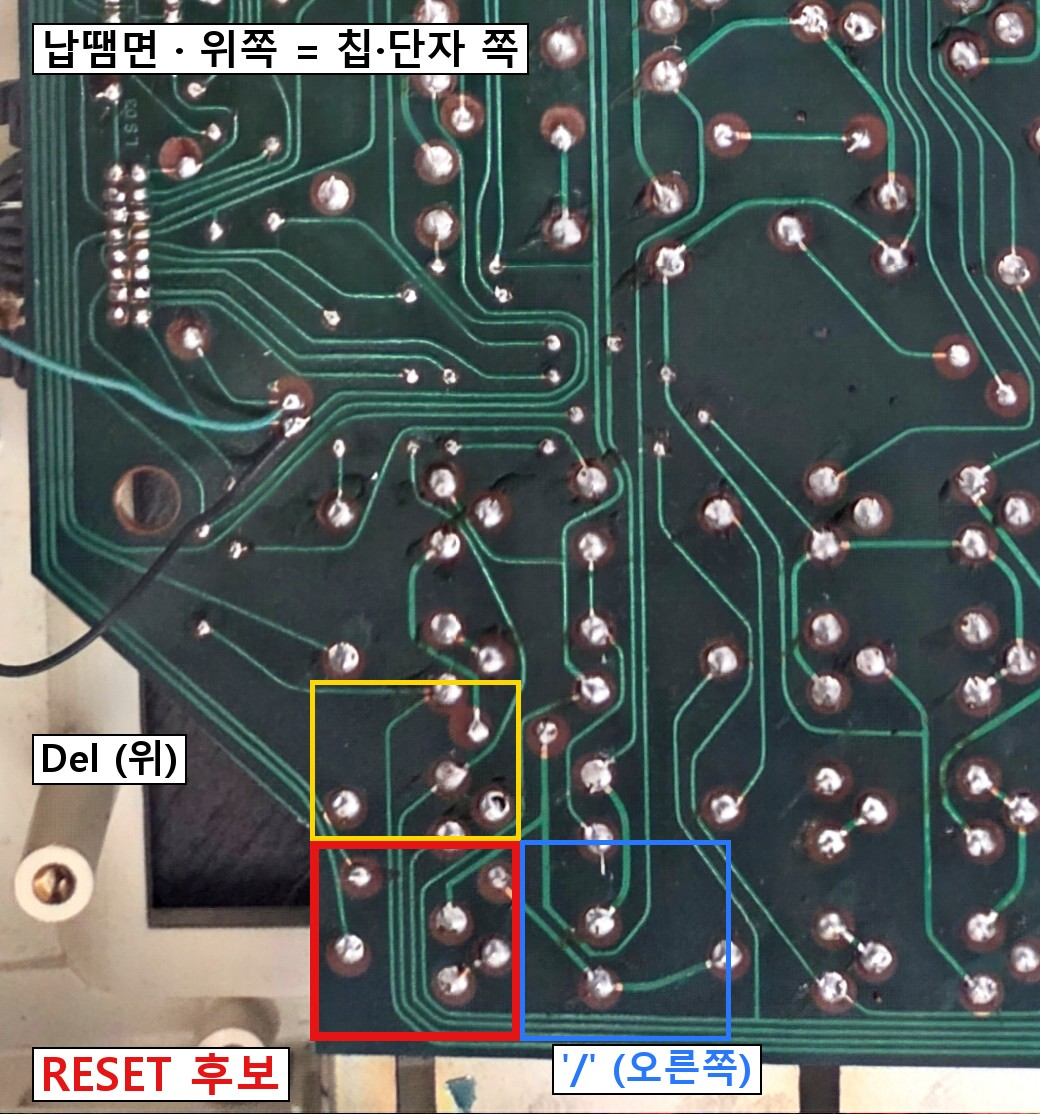
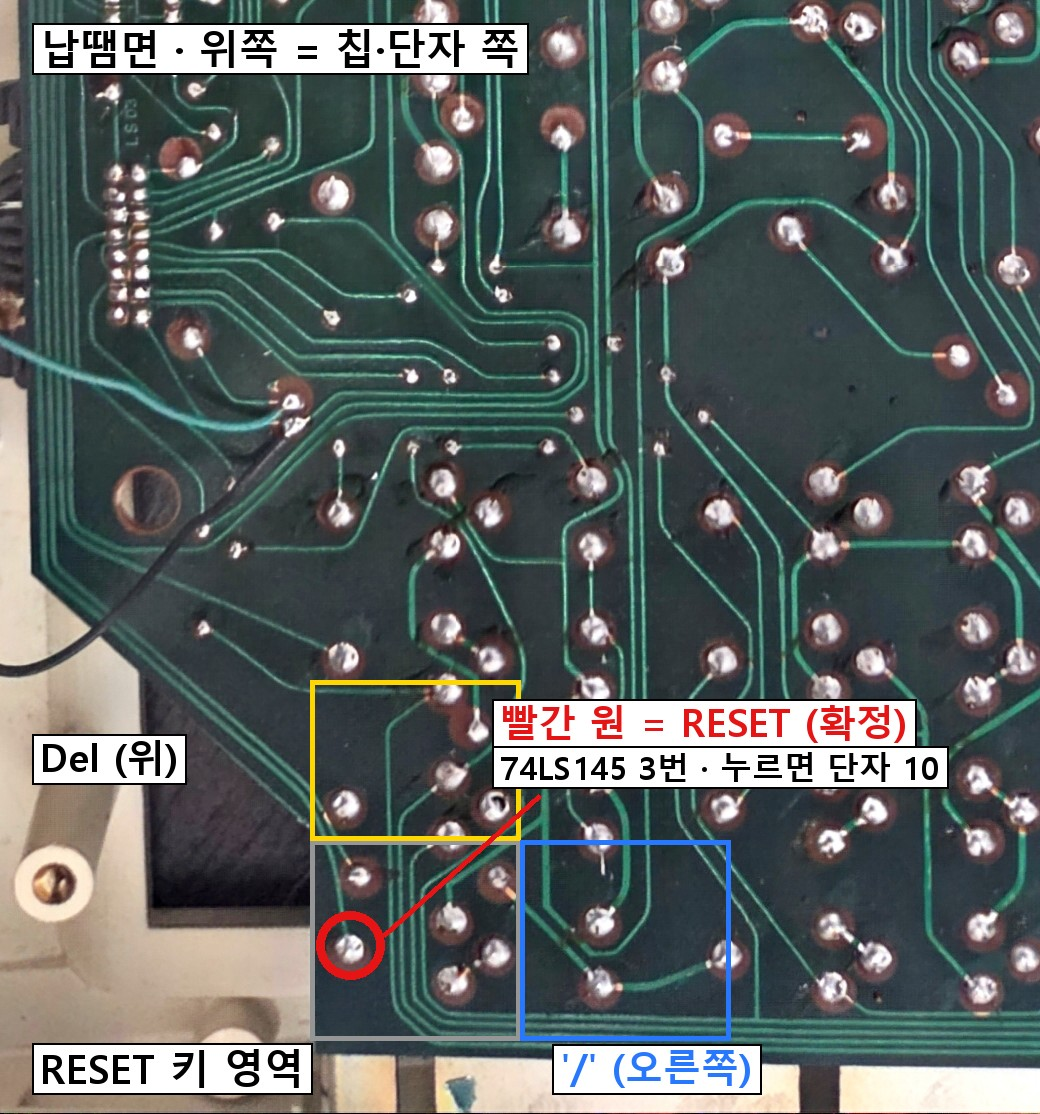
키보드 연결 후 첫 시험 기록(로고에서 멈춤, Disp만 반응), RESET 확정 패드·본체 쪽 커넥터 구멍 번호(1 +5V, 8·9 GND) 그림, 헷갈리는 옛 키보드 그림 정리 (2026-11-07)

Changed region(s): [[0.0308, 0.6104, 0.9231, 1.0]]

diff --git a/tools/annotate_cable_holes_clear.py b/tools/annotate_cable_holes_clear.py
@@ -1,0 +1,66 @@
+"""본체 쪽 키보드 케이블 커넥터(구멍 면, 점퍼선 없음) 사진 20261107_224136에 구멍 번호 매기기. ← 본체 쪽 커넥터 번호 기준 그림
+사용: python tools/annotate_cable_holes_clear.py photos/keyboard/20261107_224136_cable-connector_holes_clear.jpg analysis/kbd_cable_holes_numbered.jpg
+번호 규칙 = kbd_measure_simple.jpg 와 같음: 오른쪽 줄 맨 위 = 1, 오른쪽 줄 아래로 1–8, 이어서 왼쪽 줄 아래→위 9–16.
+사진 기준: 구멍 면, 글자(JAE…) 면과 케이블 묶음이 오른쪽, 묶음이 붙은 끝이 위.
++5V = 1번: 같은 각도로 찍은 사진 223843에서 흰 점퍼선(+5V, 사용자 확인)이 꽂힌 자리.
+"""
+import sys
+from PIL import Image, ImageOps, ImageDraw, ImageFont
+
+SRC, OUT = sys.argv[1], sys.argv[2]
+src = ImageOps.exif_transpose(Image.open(SRC)).convert("RGB")
+X0, Y0, S = 1000, 1200, 1.2
+crop = src.crop((X0, Y0, X0 + 800, Y0 + 1000))
+crop = crop.resize((int(800 * S), int(1000 * S)), Image.LANCZOS)
+TOP, BOT, LM = 170, 110, 40
+canvas = Image.new("RGB", (crop.width + LM * 2, crop.height + TOP + BOT), (255, 255, 255))
+canvas.paste(crop, (LM, TOP))
+d = ImageDraw.Draw(canvas)
+F = lambda s: ImageFont.truetype("C:/Windows/Fonts/malgunbd.ttf", s)
+FR = lambda s: ImageFont.truetype("C:/Windows/Fonts/malgun.ttf", s)
+YEL, BLK, RED = (255, 215, 0), (0, 0, 0), (230, 20, 20)
+
+right = [(220, 95), (255, 205), (295, 325), (330, 435), (365, 548), (400, 655), (432, 765), (465, 875)]
+left_bottom_up = [(375, 888), (340, 778), (305, 670), (278, 565), (245, 455), (205, 343), (160, 225), (128, 102)]
+
+def P(x, y):
+    return LM + x * S, TOP + y * S
+
+def tag(x, y, n, color):
+    f = F(30)
+    t = str(n)
+    l, tp, r, b = d.textbbox((x, y), t, font=f)
+    d.rectangle((l - 6, tp - 4, r + 6, b + 4), fill=color, outline=BLK, width=2)
+    d.text((x, y), t, font=f, fill=BLK if color == YEL else (255, 255, 255))
+
+def hole(n, x, y, side):
+    cx, cy = P(x, y)
+    r = 24
+    col = RED if n == 1 else YEL
+    d.ellipse((cx - r, cy - r, cx + r, cy + r), outline=col, width=5)
+    if side == "R":
+        tag(cx + 34, cy - 20, n, col)
+    else:
+        tag(cx - 34 - (40 if n >= 10 else 22), cy - 20, n, col)
+
+for i, (x, y) in enumerate(right):
+    hole(i + 1, x, y, "R")
+for i, (x, y) in enumerate(left_bottom_up):
+    hole(i + 9, x, y, "L")
+cx, cy = P(*right[0])
+d.text((cx + 90, cy - 22), "= +5V", font=F(32), fill=RED)
+# 8·9번 = GND (사용자 확인: 슬롯 GND와 통전) — J10의 GND 2핀(케이스 반대쪽 끝)에 들어가는 줄
+GRN = (0, 150, 60)
+for (x, y) in (right[7], left_bottom_up[0]):
+    gx, gy = P(x, y)
+    d.ellipse((gx - 30, gy - 30, gx + 30, gy + 30), outline=GRN, width=6)
+gx, gy = P(*right[7])
+d.text((gx + 80, gy - 22), "8·9 = GND", font=F(32), fill=GRN)
+
+d.text((20, 14), "본체 쪽 케이블 커넥터 구멍 번호 (기준 그림)", font=F(36), fill=BLK)
+d.text((20, 66), "오른쪽 줄 맨 위 = 1, 아래로 1–8 → 왼쪽 줄 아래에서 위로 9–16 (키보드 그림과 같은 규칙)", font=FR(24), fill=BLK)
+d.text((20, 102), "구멍 면을 보고, 글자(JAE…) 면·케이블 묶음이 오른쪽, 묶음 붙은 끝이 위로 오게 들었을 때", font=FR(24), fill=BLK)
+y = TOP + crop.height + 14
+d.text((20, y), "+5V = 1번 (흰 점퍼선 자리) · GND = 8·9번 (슬롯 GND와 통전, 사용자 확인)", font=F(26), fill=RED)
+d.text((20, y + 44), "측정 결과는 '키보드 단자 ○ → 구멍 ○번'으로 알려 주세요.", font=FR(24), fill=BLK)
+canvas.save(OUT, quality=90)

diff --git a/tools/annotate_u80_u81.py b/tools/annotate_u80_u81.py
@@ -1,0 +1,37 @@
+"""J10 옆 74LS257 두 개(U80·U81, 키보드 열 선 읽기 추정) 위치 표시 — 소켓 꾹 누르기 안내.
+사용: python tools/annotate_u80_u81.py photos/keyboard/20261107_131132_J10-header_connector-unplugged.jpg analysis/u80_u81_press.jpg
+U80 = J10 오른쪽(SIP 쪽) M74LS257AP, U81 = J10 왼쪽 M74LS257AP (사진에서는 뽑은 커넥터에 일부 가려짐).
+"""
+import sys
+from PIL import Image, ImageOps, ImageDraw, ImageFont
+
+SRC, OUT = sys.argv[1], sys.argv[2]
+src = ImageOps.exif_transpose(Image.open(SRC)).convert("RGB")
+X0, Y0, X1, Y1 = 0, 900, 3000, 2700
+im = src.crop((X0, Y0, X1, Y1)).resize((1500, 900), Image.LANCZOS)
+S = 0.5
+d = ImageDraw.Draw(im)
+F = lambda s: ImageFont.truetype("C:/Windows/Fonts/malgunbd.ttf", s)
+RED, BLU, BLK, WHITE, YEL = (230, 20, 20), (30, 100, 240), (0, 0, 0), (255, 255, 255), (255, 215, 0)
+
+def P(x, y):
+    return (x - X0) * S, (y - Y0) * S
+
+def label(xy, text, size, color):
+    x, y = xy
+    f = F(size)
+    l, t, r, b = d.textbbox((x, y), text, font=f)
+    d.rectangle((l - 6, t - 4, r + 6, b + 4), fill=WHITE, outline=BLK, width=2)
+    d.text((x, y), text, font=f, fill=color)
+
+# U80 (J10 오른쪽, M74LS257AP 503000)
+d.rectangle((*P(1500, 1250), *P(1780, 1700)), outline=RED, width=7)
+label(P(1500, 1720), "U80 74LS257", 30, RED)
+# U81 (J10 왼쪽, 커넥터에 일부 가려짐)
+d.rectangle((*P(860, 1370), *P(1080, 1830)), outline=RED, width=7)
+label(P(380, 1870), "U81 74LS257 (커넥터 밑)", 30, RED)
+# J10
+d.rectangle((*P(1150, 1330), *P(1320, 1860)), outline=YEL, width=5)
+label(P(1170, 1240), "J10", 30, BLK)
+label((20, 15), "전원 끄고: 빨간 칸 칩 2개를 엄지로 수직으로 꾹", 34, RED)
+im.save(OUT, quality=90)

diff --git a/tools/annotate_kbd_reset.py b/tools/annotate_kbd_reset.py
@@ -28,12 +28,19 @@ def label(xy, text, size, color):
     d.text((x, y), text, font=f, fill=color)
 
 # RESET 후보 구역 (납땜면 왼쪽 아래 모서리)
-d.rectangle((*p(830, 2990), *p(1040, 3190)), outline=RED, width=9)
-label(p(560, 3200 - 10), "RESET 후보", 46, RED)
+GRY = (150, 150, 150)
+d.rectangle((*p(830, 2990), *p(1040, 3190)), outline=GRY, width=5)
+label(p(560, 3200 - 10), "RESET 키 영역", 40, BLK)
 # 이웃 키 (방향 잡기용)
 d.rectangle((*p(830, 2830), *p(1040, 2990)), outline=YEL, width=5)
 label(p(560, 2880), "Del (위)", 38, BLK)
 d.rectangle((*p(1040, 2990), *p(1250, 3190)), outline=BLU, width=5)
 label(p(1080, 3200 - 10), "'/' (오른쪽)", 38, BLU)
 label(p(560, 2170), "납땜면 · 위쪽 = 칩·단자 쪽", 40, BLK)
+# 측정 확인된 RESET 패드 (사용자 2026-11-07: 빨간 칸 왼쪽 가운데. 74LS145 3번과 통전, 누르면 단자 10과 통전)
+rx, ry = p(870, 3095)
+d.ellipse((rx - 34, ry - 34, rx + 34, ry + 34), outline=RED, width=9)
+d.line((rx + 34, ry - 10, rx + 190, ry - 150), fill=RED, width=6)
+label((rx + 150, ry - 250), "빨간 원 = RESET (확정)", 38, RED)
+label((rx + 150, ry - 200), "74LS145 3번 · 누르면 단자 10", 32, BLK)
 im.save(OUT, quality=90)

diff --git a/docs/08-repair-log.md b/docs/08-repair-log.md
@@ -4,6 +4,24 @@
 
 전원을 켠 상태의 측정을 기록합니다. 전원을 끄고 잰 배선(도통·저항)은 [`data/netlist.csv`](../data/netlist.csv)에 기록합니다.
 
+## 키보드 연결 후 첫 시험 (2026-11-07 저녁)
+
+사진: [`photos/screen/20261107_205511_boot-logo_fkey-bar_drive-spinning.jpg`](../photos/screen/20261107_205511_boot-logo_fkey-bar_drive-spinning.jpg)
+
+- 키보드를 [꽂는 방향 그림](../analysis/kbd_plug_direction.jpg)대로 연결하고 전원 켬 (사용자). 디스켓 없음.
+- **HART 로고 화면에서 멈춤**, 드라이브 모터는 돌고 소리 남.
+- 화면 맨 아래 줄에 **기능키 이름 줄**이 나옴: `DIR ERA OPEN SAVE TYPE STAT WORKING .MAC .COM DDT COPY FORMAT` (각 이름 앞에 반전 숫자 = F1–F12 표시로 보임). 이 사진의 목록은 **CP/M 명령어**.
+- **Disp 키**를 누르면 이 줄이 **BASIC 명령어 목록**으로 바뀜 (사용자 관찰) → 어떤 프로세서가 키보드를 읽고 화면에 쓰고 있음 = 키보드 스캔 경로는 최소한 일부 동작.
+- **다른 키, Ctrl+RESET 모두 반응 없음.**
+- 판단 (추정):
+    1. 가장 유력: Apple 쪽 CPU가 **디스크 부팅 대기**(디스켓 없음, 드라이브 계속 회전)에 머물러 있어 글자 키를 읽지 않음. Disp는 키보드/한글 처리 쪽(U64 추정)이 직접 처리해서 반응. → 부팅 디스크로 시험 필요.
+    2. RESET이 매트릭스 키(행 2 × 단자 10)라서, 리셋이 스캔 처리 쪽을 거쳐 걸리는 구조일 가능성. Ctrl+RESET이 안 먹는 이유는 미확인 (조합키가 다를 수도, 리셋 전달 경로 문제일 수도).
+    3. 일부 열 선만 읽히는 하드웨어 문제(U80·U81 접촉 등) 가능성도 남음 → Disp 키의 행·열 위치 측정, J10 스캔 신호 측정으로 구분.
+- 메모: 이전 README의 "까만 화면 멈춤"과는 다른 상태(로고까지 정상 출력).
+- U80·U81 꾹 누르기 → **변화 없음** (사용자).
+- 케이블 단선 의심 → 본체 쪽 커넥터 사진 [`photos/keyboard/20261107_223843_cable-connector_holes_5V-jumper.jpg`](../photos/keyboard/20261107_223843_cable-connector_holes_5V-jumper.jpg): **흰 점퍼선을 꽂은 구멍 = +5V** (사용자 확인). 구멍 면을 보고 케이블 묶음 쪽 끝을 위로 들었을 때 **왼쪽 줄 맨 위** 구멍 → 점퍼선 끝 위치로 보아 **+5V = 1번** (오른쪽 = 글자 면·케이블 묶음 쪽, 오른쪽 줄 맨 위 = 1) → 글자 면 쪽 줄 끝 = +5V로, 앞의 "글자 면 쪽 줄" 설명과 맞음. 점퍼선 없이 같은 각도로 다시 찍은 사진 [`photos/keyboard/20261107_224136_cable-connector_holes_clear.jpg`](../photos/keyboard/20261107_224136_cable-connector_holes_clear.jpg)에 번호를 매긴 **[`analysis/kbd_cable_holes_numbered.jpg`](../analysis/kbd_cable_holes_numbered.jpg)를 본체 쪽 커넥터 구멍 번호의 기준 그림으로 사용** (+5V = 1번, **GND = 8·9번** — 슬롯 GND와 통전, 사용자 확인. 맨 아래 줄 2칸이 J10 케이스 반대쪽 끝 GND 2핀에 들어감).
+- 측정 요령: 커넥터 구멍에 **점퍼선(듀폰선)을 꽂고 그 반대쪽 끝에 테스터 침**을 대면 구멍 측정이 쉬움 (사용자 방법).
+
 ## 현재 판단 (2026-11-07 갱신)
 
 **CPU 박자는 정상으로 보임 (이전 "Φ0 이상" 판단 철회).**
@@ -26,7 +44,7 @@
     - J10 16핀 예상 구성(미확인): GND·+5V, 행 번호 4비트(74LS145 A–D), 열 선 여러 개, 나머지(74LS03 관련 또는 특수 키).
     - 케이블의 **초록·검정 선 2가닥은 JAE 단자를 거치지 않고 키 스위치 한 곳에 직접 납땜** → 매트릭스와 따로 가는 키. RESET 키일 가능성이 높으나 미확인 (그 키를 누른 채 초록–검정 통전으로 확인).
     - 사진 해상도로는 16핀 각각을 확실히 따라갈 수 없음 → 키보드 쪽에서 통전 측정으로 확정 (74LS145 핀 15·14·13·12 = A·B·C·D, 16 = Vcc, 8 = GND).
-- **키보드 양면 사진 판독 (2026-11-07, 145210–145419)**: 핀 안내 그림 [`analysis/kbd_solder_pinguide.jpg`](../analysis/kbd_solder_pinguide.jpg), 도구 [`tools/annotate_kbd_solder.py`](../tools/annotate_kbd_solder.py).
+- **키보드 양면 사진 판독 (2026-11-07, 145210–145419)**: (처음 만든 K1–K8 번호 안내 그림은 헷갈려서 삭제, 아래 "측정용 번호 (최종)" 그림만 사용).
     - **단면 기판**: 배선은 모두 납땜면. 부품면에는 칩 2개, 저항 1개, JAE 16P 단자, 은색 점퍼선 여러 개뿐.
     - 칩 방향: 부품면에서 두 칩 모두 노치가 단자 쪽(사진 아래)을 향하고, 글자가 아래→위로 읽힘 → 부품면 1번 핀 = 오른쪽 아래. 납땜면은 위아래가 뒤집혀 1번 핀 = 오른쪽 위 (확실성 높음). 104 콘덴서는 74LS145 16번(Vcc)과 74LS03 7번(GND) 사이.
     - 74LS145 입력 A–D(15–12번)는 단자 쪽에서 오는 선, 출력(1–7, 9–11번)은 아래쪽 키 매트릭스로 내려감.
@@ -41,7 +59,7 @@
         - **재측정 (2026-11-07, 사용자): 74LS145 14번(B) ↔ 단자 12 통전 확인.** 앞의 "B 통전 없음"은 측정 실수(접촉·핀 위치)로 판단. → 행 번호 4비트 A·B·C·D = 단자 8·12·7·6 확정. 위의 "B가 GND에 묶였다면" 가정은 폐기.
         - **초록 선 측정 (2026-11-07, 사용자)**: RESET 키를 누른 채 초록 ↔ 검정 **통전 없음** → 초록·검정 선은 RESET 키 스위치가 아님(또는 다른 키). RESET 키 다리 ↔ 단자 16(GND)은 **누르든 안 누르든 통전** → RESET 스위치 한쪽 다리 = GND. 반대쪽 다리가 어느 단자로 가는지 미확인. RESET을 누른 채 단자 16 ↔ 단자 1–15 → **누를 때 통전되는 단자 없음** (사용자). 스위치 자체 불량, 측정 위치(다른 키 패드) 착오, 또는 단자 아닌 곳(초록 선·저항·칩 입력)으로 가는 경우 중 미확인.
         - 납땜면 RESET 위치: 앞면 오른쪽 아래 모서리 키 → 납땜면은 좌우 반전이라 **왼쪽 아래 모서리** (위 = Del, 오른쪽 = '/'). 그림 [`analysis/kbd_reset_solder.jpg`](../analysis/kbd_reset_solder.jpg), 도구 [`tools/annotate_kbd_reset.py`](../tools/annotate_kbd_reset.py). 빨간 칸 안 패드 약 6개 중 어느 둘이 RESET 스위치인지는 사진으로 확정 못 함 → 누른 채 통전으로 확정.
-        - **측정 (2026-11-07, 사용자)**: 빨간 칸 **왼쪽 줄 가운데 패드** = RESET 스위치 다리. RESET을 누른 채 그 패드 ↔ **단자 10** 통전. 단자 16(GND) ↔ 단자 10은 눌러도 통전 없음(앞 측정) → RESET은 GND 직결 키가 아니라 **키 매트릭스 안의 키**로 판단: 단자 10 = 열 선 하나, 왼쪽 가운데 패드 = 행 쪽(74LS145/74LS03 출력 후보). 앞의 "RESET 다리 ↔ 단자 16 상시 통전"은 다른 패드를 잰 것으로 보임 (재확인 대상).
+        - **측정 (2026-11-07, 사용자)**: 빨간 칸 **왼쪽 줄 가운데 패드** = RESET 스위치 다리 (그림의 **빨간 원** = RESET 확정 패드, 사용자 확인). RESET을 누른 채 그 패드 ↔ **단자 10** 통전. 단자 16(GND) ↔ 단자 10은 눌러도 통전 없음(앞 측정) → RESET은 GND 직결 키가 아니라 **키 매트릭스 안의 키**로 판단: 단자 10 = 열 선 하나, 왼쪽 가운데 패드 = 행 쪽(74LS145/74LS03 출력 후보). 앞의 "RESET 다리 ↔ 단자 16 상시 통전"은 다른 패드를 잰 것으로 보임 (재확인 대상).
         - **측정 (2026-11-07, 사용자)**: RESET 행 쪽 패드 ↔ **74LS145 3번(Y2)** 통전, 74LS03 출력(3·6·8·11)과는 통전 없음. → **RESET = 행 2 (D C B A = 0 0 1 0, 단자 12(B)만 High) × 열 단자 10.** 매트릭스 키 첫 확정.
         - 부품면 저항 위치: [`analysis/kbd_resistor_location.jpg`](../analysis/kbd_resistor_location.jpg) (JAE 16P 단자 왼쪽, 세로로 선 저항). 도구 [`tools/annotate_kbd_resistor.py`](../tools/annotate_kbd_resistor.py).
         - **키보드 단자 중간 정리**: 16 GND, 9 +5V, 8 A, 12 B(확인), 7 C, 6 D, 11 = 추가 선택선(이름 미정, 74LS03 3·4번 게이트 입력). 나머지 1·2·3·4·5·10·13·14·15 (9칸) = 키 매트릭스 열 선 후보 (8칸이면 본체 74LS257 2개 = 8비트와 맞음).

diff --git a/docs/04-open-questions.md b/docs/04-open-questions.md
@@ -22,7 +22,8 @@
     2. 부품면 저항 1개 ([위치 그림](../analysis/kbd_resistor_location.jpg)): 두 다리가 각각 어디와 통하는지 (단자 1–16, 74LS03 1·10·12번)
     3. 남은 단자 1·2·3·4·5·10·13·14·15 (열 선 후보): 키를 누른 채 단자 ↔ 74LS145 출력핀(1–7, 9–11)·74LS03 출력핀(3·6·8·11) 통전
     4. ~~초록 선: Reset 키를 누른 채 초록 ↔ 검정~~ → 통전 없음 (2026-11-07). RESET 키 한쪽 다리 = 단자 16(GND) 상시 통전. 남은 것: RESET 키를 누른 채 단자 16 ↔ 단자 1–15 (누를 때만 삑 하는 단자 = RESET 선) → **해당 단자 없음** (2026-11-07). → RESET 패드(납땜면 [그림](../analysis/kbd_reset_solder.jpg) 빨간 칸 왼쪽 가운데)는 누를 때 **단자 10**과 통전 = 매트릭스 키. → 그 패드 = **74LS145 3번(Y2)** → **RESET = 행 2 × 열 단자 10 확정** (2026-11-07). 같은 방법(키 누른 채 패드 ↔ 단자, 반대 패드 ↔ 칩 출력)으로 다른 키도 찾을 수 있음. 다음: 납땜면 RESET 스위치 두 패드 사이를 누른 채 직접 통전(스위치 자체 동작 확인) → 동작하면 GND 아닌 쪽 패드 ↔ 초록 선·저항 다리·74LS145/74LS03 모든 핀. 초록·검정 선 용도는 미확인
-    5. 케이블 양 끝 대응: 키보드 단자 번호 ↔ 본체 쪽 커넥터 구멍 (본체 J10 GND 끝 기준). **먼저 할 것**: 안내 그림 [`analysis/kbd_cable_orientation_guide.jpg`](../analysis/kbd_cable_orientation_guide.jpg) — 단자 16(GND)·9(+5V)가 가는 구멍만 찾고, J10 +5V 핀(슬롯1 25번과 통전)을 찾아 꽂는 방향 결정. 커넥터 구멍 번호(보고용): [`analysis/kbd_cable_connector_holes.jpg`](../analysis/kbd_cable_connector_holes.jpg)
+    6. **(선택, 보류)** Disp·Ctrl 키의 행 × 열 — 사진 추정 위치에서 패드를 찾기 어려워 보류 (2026-11-07). 하려면 해당 부분 납땜면 근접 사진으로 패드부터 특정할 것. 목적: Disp만 반응하고 Ctrl+RESET이 안 먹는 원인이 "본체가 일부 열만 못 읽음"인지 가르기
+    5. 케이블 양 끝 대응: 키보드 단자 번호 ↔ 본체 쪽 커넥터 구멍 (본체 J10 GND 끝 기준). 꽂는 방향은 결정됨 ([`analysis/kbd_plug_direction.jpg`](../analysis/kbd_plug_direction.jpg)). 본체 쪽 커넥터 구멍 번호 기준: [`analysis/kbd_cable_holes_numbered.jpg`](../analysis/kbd_cable_holes_numbered.jpg) (1번 +5V, 8·9번 GND). 남은 것: 2–7번, 10–16번 대응 (단선 확인 겸)
         - **측정 (2026-11-07, 사용자)**: 본체 쪽 커넥터에서 **글자(JAE…) 찍힌 면 쪽 줄**의 양 끝 구멍 — 한쪽 끝 = GND(키보드 단자 16), 반대쪽 끝 = +5V(키보드 단자 9). (안내 그림 2번 사진 기준 위 = GND, 아래 = +5V.) → GND·+5V가 같은 줄 양 끝. **J10 +5V 확인 (2026-11-07, 사용자)**: 케이스 쪽 끝 **왼쪽 핀(SIP·U80 반대쪽 줄)** = +5V. → 꽂는 방향 결정: 커넥터 글자 면 줄 → J10 왼쪽 줄, GND 끝 → 케이스 반대쪽. 그림 [`analysis/kbd_plug_direction.jpg`](../analysis/kbd_plug_direction.jpg). 꽂은 뒤 전원 켜기 전 통전 확인(단자 9↔슬롯1 25, 단자 16↔슬롯1 26, 9↔16 안 통함). J10 GND는 케이스 반대쪽 끝 2핀이므로, 예상대로 J10 +5V가 케이스 쪽 끝이면 글자 면 줄을 그 +5V 핀 줄에 맞추고 GND 끝을 케이스 반대쪽으로 꽂으면 됨.
 - [ ] **키보드 방식**: 키보드 안에 74LS145·74LS03만 있음 → 본체가 매트릭스를 직접 스캔하는 것으로 판단 (2026-11-07 분해). 행 번호 4비트를 내보내는 본체 칩, 열 선 개수, 74LS03 용도, 초록·검정 직결 선이 어느 키(RESET 추정)인지 미확인
 - [ ] **모델명 "ZPC-40"**: 키보드 명판에 "PERSONAL COMPUTER ZPC-40". 본체 모델명인지 확인 (케이스 라벨·ROM 문자열)

diff --git a/photos/README.md b/photos/README.md
@@ -157,7 +157,7 @@ photos/
 | Scan_20261107_144038 / 144116 / 144256 | 키보드 납땜면 평면 보정본 |
 | Scan_20261107_144416_kbd-keys-and-pcb-top.jpg | 케이스에서 꺼낸 키 배열과 기판 부품면 |
 | 20261107_145210 / 145216 / 145233 / 145236 / 145242 | 키보드 납땜면 구역별 (위·가운데·아래) |
-| 20261107_145239_kbd-solder-side_connector-ICs.jpg | 키보드 납땜면 단자·칩 부분. **핀 안내 그림 기준** ([`analysis/kbd_solder_pinguide.jpg`](../analysis/kbd_solder_pinguide.jpg)) |
+| 20261107_145239_kbd-solder-side_connector-ICs.jpg | 키보드 납땜면 단자·칩 부분. **측정 번호 그림 기준** ([`analysis/kbd_measure_simple.jpg`](../analysis/kbd_measure_simple.jpg)) |
 | 20261107_145358 / 145413 / 145419 | 키보드 부품면: 칩 표기·노치 방향, JAE 16P, 점퍼선, 케이스에 붙은 검정 선 중계 패드 |
 
 ## 추가로 필요한 사진
